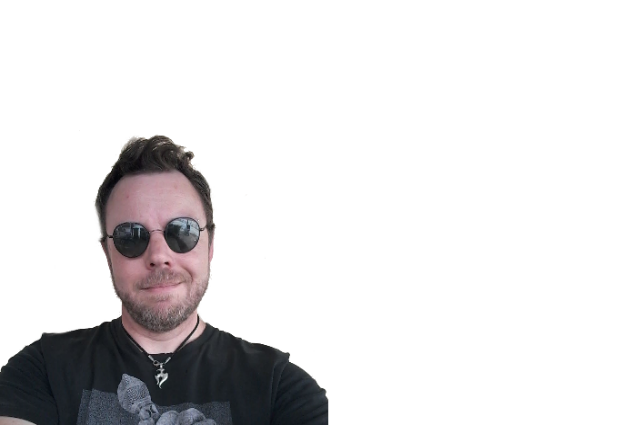
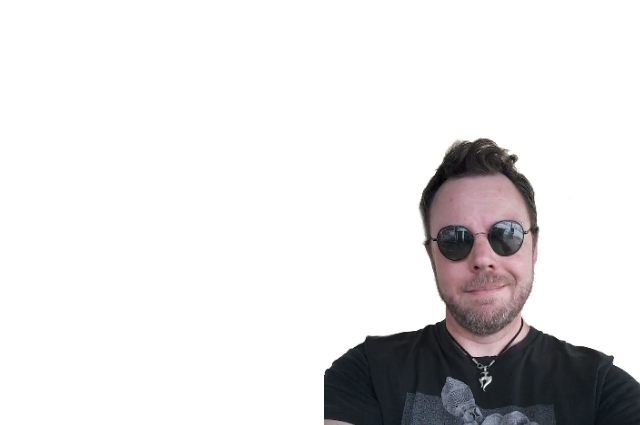
Fixed left vs right image rows

diff --git a/intro_to_it/assessment1/index.html b/intro_to_it/assessment1/index.html
@@ -74,8 +74,8 @@ https://templatemo.com/tm-464-ultra-profile
 				<div class="col-md-offset-6 col-md-6 col-sm-offset-6 col-sm-7">
                         <h2 class="title">Personal <strong>Information</strong></h2>						
 				    	<div class="title">
-						<h1 class="tm-red-text">RMIT Online <strong>Student</strong></h1>
 					</div>
+                    <p><span class="tm-info-label">Name</span> Ian McElwaine</p>
 					<p><span class="tm-info-label">Location</span> Albury NSW Australia (AEST GMT+10)</p>
 					<p><span class="tm-info-label">Phone</span> <a href="tel:+61400016829"> 0400 016 829</a></p>
 					<p><span class="tm-info-label">Email</span> <a href="mailto:s3863018@student.rmit.edu.au">s3863018@student.rmit.edu.au</a></p>
@@ -94,13 +94,17 @@ https://templatemo.com/tm-464-ultra-profile
 	<section id="rmit" class="tm-rmit">
 		<div class="container">
 			<div class="row">
-				<div class="col-md-offset-6 col-md-6 col-sm-offset-6 col-sm-7">
+				<div class="col-md-offset-0 col-md-0 col-sm-offset-0 col-sm-7">
 			     <h2 class="title">Why <strong>RMIT?</strong></h2>						
 				    	<div class="title">
-						<h2><strong>Ian McElwaine</strong></h2>
+						<h2><strong>What is my interest in IT? </strong></h2>
 					</div>
-					<p>I've had a strong interest in computing since my dad bought a Commodore C64 (Links to an external site.) in the mid-1980's. Amiga (Links to an external site.)'s 500, 600 and 1200 followed which I used for school homework, games, coding, music production, and creating bitmap graphics. I was (reluctantly) introduced to Windows 3.11, the Microsoft Office suite, and WordPress on a 386 clone PC in the workplace, and now mainly use Windows 10 and Debian (Links to an external site.) based Linux OS's.
-                        Through the course of my career I became interested in systems analysis and process design, databases, server/client relationships, and user experience.</p>
+					<p>I've had a strong interest in computing since my dad bought a Commodore C64 (Links to an external site.) in the mid-1980's. Amiga (Links to an external site.)'s 500, 600 and 1200 followed which I used for school homework, games, coding, music production, and creating bitmap graphics.<br><br>
+                        <div class="title">
+						<h2><strong>When did my interest in IT start? </strong></h2>
+                    </div>
+                        
+<p>Through the course of my career I became interested in systems analysis and process design, databases, server/client relationships, and user experience.</p><br><br>
 
 <p>My command line Kung Fu isn't too bad. My IT setup at home:
 A desktop running Windows 10;
